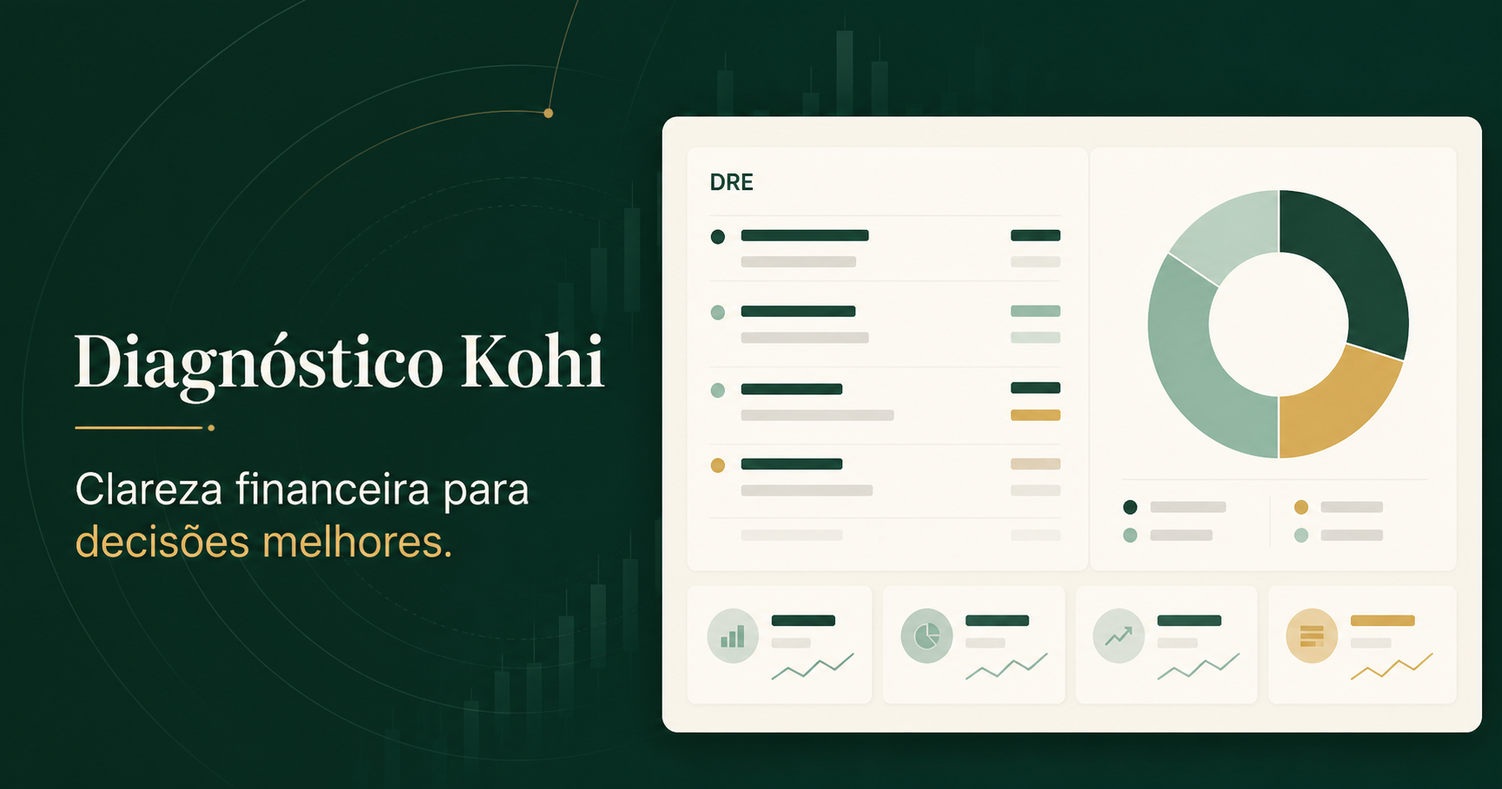
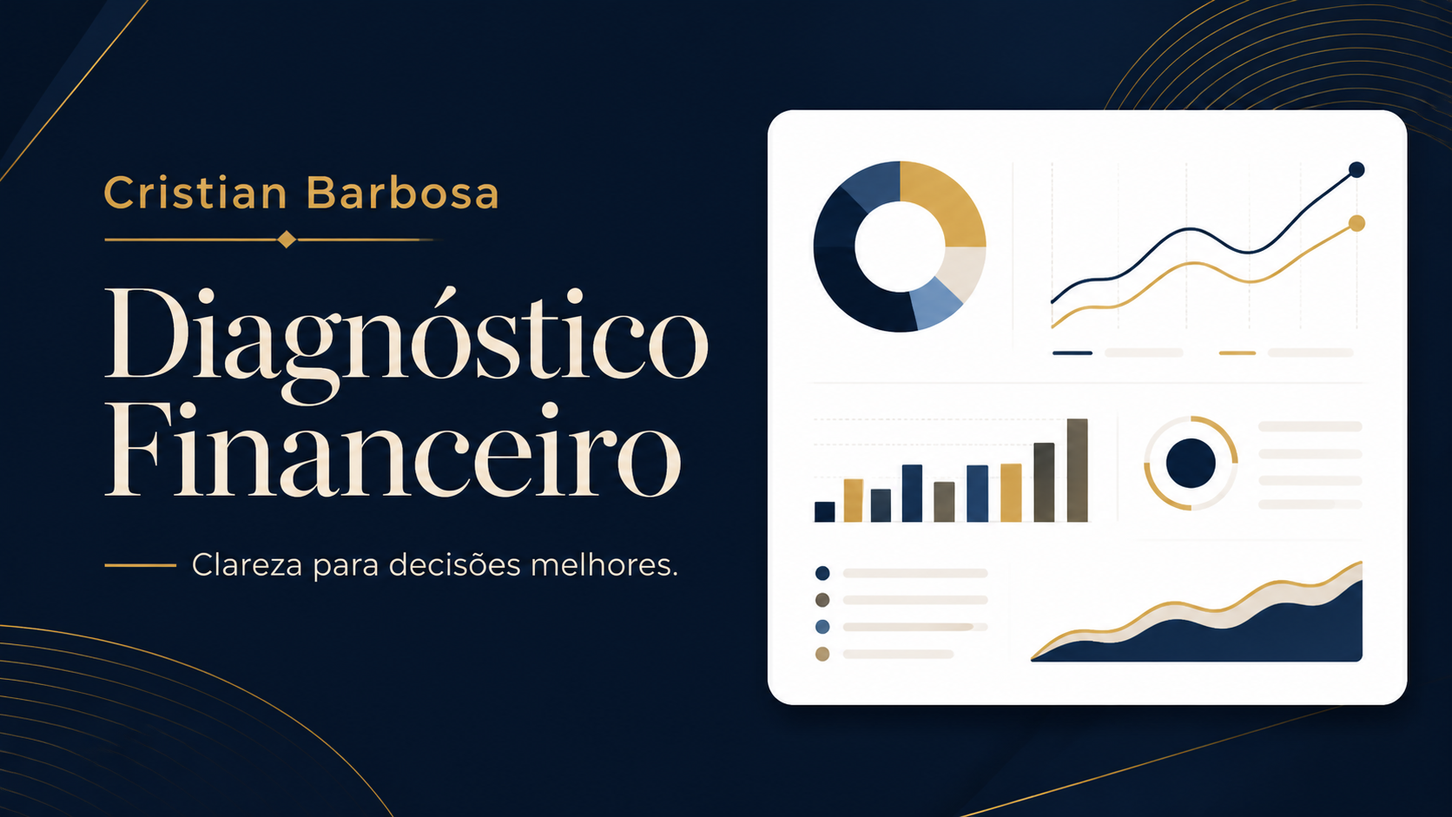
Rebrand financial diagnosis for Cristian Barbosa

diff --git a/app/globals.css b/app/globals.css
@@ -1,12 +1,12 @@
 @import "tailwindcss";
 
-:root { --ink:#16231e; --forest:#153e32; --green:#2f8a68; --cream:#f4f1ea; --line:#dfe5e1; --muted:#66736d; }
+:root { --ink:#101b2c; --forest:#07111f; --green:#163a63; --cream:#f7f2e8; --line:#dfe3e8; --muted:#687386; --gold:#d2ae4a; --navy:#07111f; --blue:#163a63; }
 * { box-sizing:border-box; }
 html,body { margin:0; min-height:100%; }
 body { color:var(--ink); background:#f8faf8; font-family:var(--font-geist),Arial,sans-serif; }
 button,input,select { font:inherit; }
 .login-shell { min-height:100vh; display:grid; grid-template-columns:minmax(420px,1.05fr) minmax(440px,.95fr); }
-.login-story { position:relative; padding:54px 7vw 50px; overflow:hidden; color:#fff; background:radial-gradient(circle at 20% 10%,#24614d 0,transparent 34%),linear-gradient(145deg,#153e32 0%,#0f2d25 100%); display:flex; flex-direction:column; justify-content:space-between; }
+.login-story { position:relative; padding:54px 7vw 50px; overflow:hidden; color:#fff; background:radial-gradient(circle at 20% 10%,#182945 0,transparent 34%),linear-gradient(145deg,#07111f 0%,#0d1c31 100%); display:flex; flex-direction:column; justify-content:space-between; }
 .login-story::after { content:""; position:absolute; width:520px; height:520px; border:1px solid rgba(255,255,255,.09); border-radius:50%; right:-250px; bottom:-150px; box-shadow:0 0 0 80px rgba(255,255,255,.025),0 0 0 160px rgba(255,255,255,.018); }
 .brand { display:flex; gap:13px; align-items:center; color:#fff; text-decoration:none; font-size:17px; position:relative; z-index:1; }
 .brand-mark { display:grid; place-items:center; width:38px; height:38px; border-radius:11px; background:#d6ad57; color:#173a30; font-weight:800; font-family:Georgia,serif; box-shadow:inset 0 0 0 1px rgba(255,255,255,.3); }
@@ -28,6 +28,7 @@ button,input,select { font:inherit; }
 .app-shell{min-height:100vh;display:grid;grid-template-columns:228px 1fr;background:#f5f7f5}.sidebar{position:sticky;top:0;height:100vh;background:#12382e;color:#d8e5df;padding:27px 22px;display:flex;flex-direction:column}.side-brand{display:flex;align-items:center;gap:10px;font-size:14px}.side-brand .brand-mark{width:34px;height:34px}.side-brand strong{display:block;color:#fff;font-size:16px}.sidebar nav{margin-top:58px}.sidebar nav>span{display:block;color:#75968a;font-size:9px;letter-spacing:.18em;margin:0 10px 10px}.sidebar nav a{display:flex;gap:13px;align-items:center;padding:12px;color:#94afa4;text-decoration:none;font-size:12px;border-radius:9px;margin-bottom:5px}.sidebar nav a.active{background:rgba(255,255,255,.09);color:#fff}.side-note{margin-top:auto;background:rgba(255,255,255,.07);padding:16px;border-radius:12px;display:grid;grid-template-columns:28px 1fr;column-gap:8px}.side-note>span{grid-row:1/3;width:26px;height:26px;border-radius:8px;background:#d6ad57;color:#173a30;display:grid;place-items:center;font-weight:800}.side-note strong{font-size:11px}.side-note small{font-size:9px;color:#91aaa0;line-height:1.45;margin-top:3px}.sidebar footer{font-size:9px;color:#66887c;line-height:1.5;margin-top:24px}.workspace{padding:38px 4.2vw 60px;min-width:0}.topbar{display:flex;justify-content:space-between;gap:30px;align-items:flex-start}.topbar h1,.company-hero h1{font-family:Georgia,serif;font-weight:500;letter-spacing:-.035em;margin:8px 0 6px;font-size:38px}.topbar p{margin:0;color:var(--muted);font-size:13px}.user-menu{display:flex;align-items:center;gap:10px;background:#fff;border:1px solid #e1e7e3;padding:8px 10px;border-radius:12px}.avatar{width:34px;height:34px;border-radius:10px;background:#dcebe4;color:#1f614c;display:grid;place-items:center;font-size:11px;font-weight:800}.user-menu div{display:flex;flex-direction:column;min-width:120px}.user-menu strong{font-size:11px}.user-menu small{font-size:9px;color:#84908b}.user-menu button,.table-wrap td>button{border:0;background:none;color:#87918c;cursor:pointer}.sync-line{display:flex;gap:7px;align-items:center;color:#89938e;font-size:10px;margin:24px 0}.sync-dot{width:7px;height:7px;background:#42a37e;border-radius:50%;box-shadow:0 0 0 3px #dceee7}.config-alert{display:flex;gap:12px;align-items:center;background:#fff4df;border:1px solid #f0d8aa;padding:13px 16px;border-radius:10px;color:#815d22;font-size:11px;margin-bottom:16px}.summary-grid{display:grid;grid-template-columns:repeat(3,1fr);gap:14px;margin-bottom:18px}.summary-grid article,.list-card,.analysis-card,.indicators article,.scenarios article{background:#fff;border:1px solid #e1e6e2;border-radius:14px}.summary-grid article{padding:19px 21px;display:grid;grid-template-columns:1fr auto}.summary-grid span{font-size:11px;color:#6f7a74}.summary-grid strong{grid-row:1/3;grid-column:2;font-family:Georgia,serif;font-size:30px;font-weight:500}.summary-grid small{font-size:9px;color:#99a19d;margin-top:7px}.list-card{overflow:hidden}.list-head{display:flex;justify-content:space-between;align-items:center;padding:22px 24px;border-bottom:1px solid #edf0ee;gap:20px}.list-head h2{font-family:Georgia,serif;font-size:22px;font-weight:500;margin:0 0 3px}.list-head p{font-size:10px;color:#8b9690;margin:0}.filters{display:flex;gap:8px}.search{position:relative}.search span{position:absolute;left:11px;top:9px;color:#929d97}.filters input,.filters select{height:34px;border:1px solid #dfe5e1;background:#fff;border-radius:8px;color:#65716b;font-size:10px;padding:0 10px}.filters input{width:200px;padding-left:29px}.table-wrap{overflow-x:auto}.table-wrap table{width:100%;border-collapse:collapse;min-width:800px}.table-wrap th{padding:12px 18px;text-align:left;background:#fafbf9;color:#87918b;text-transform:uppercase;letter-spacing:.09em;font-size:8px}.table-wrap td{padding:15px 18px;border-top:1px solid #edf0ee;font-size:10px;color:#61706a;cursor:pointer}.table-wrap tr:hover td{background:#fbfdfb}.table-wrap td>strong,.table-wrap td>small{display:block;color:#263b33}.table-wrap td>small{color:#8b9690;margin-top:4px}.company{display:flex;align-items:center;gap:11px}.company>span,.hero-id>span{width:38px;height:38px;border-radius:10px;background:#e3efe9;color:#2f765b;display:grid;place-items:center;font-size:10px;font-weight:800}.company div{display:flex;flex-direction:column}.company small{margin-top:3px;color:#8a958f}.status{display:inline-flex;align-items:center;gap:5px;padding:5px 8px;border-radius:99px;font-size:9px;font-weight:700}.status i{width:5px;height:5px;border-radius:50%;background:currentColor}.status.positive{background:#e5f4ec;color:#25704f}.status.negative{background:#fdeae6;color:#b44e3d}.empty{text-align:center;color:#84908a;padding:45px;font-size:12px}.detail{padding-top:22px}.detail-top{display:flex;justify-content:space-between;align-items:center}.back,.ghost{border:0;background:none;color:#496158;font-size:11px;cursor:pointer}.ghost{border:1px solid #dbe2de;border-radius:8px;padding:7px 12px}.company-hero{display:flex;justify-content:space-between;align-items:center;margin-top:28px}.hero-id{display:flex;gap:16px;align-items:center}.hero-id>span{width:58px;height:58px;border-radius:15px;font-size:15px}.hero-id small{text-transform:uppercase;letter-spacing:.13em;color:#6aa187;font-size:8px}.company-hero h1{font-size:34px;margin:3px 0}.company-hero p{margin:0;color:#7c8882;font-size:11px}.hero-contact{display:flex;align-items:center;gap:24px}.hero-contact div{display:flex;flex-direction:column;text-align:right}.hero-contact small{font-size:8px;text-transform:uppercase;color:#8a9690}.hero-contact strong{font-size:11px;margin:3px 0}.hero-contact span{font-size:9px;color:#7c8882}.hero-contact a{background:#287c5e;color:#fff;text-decoration:none;border-radius:9px;padding:11px 15px;font-size:10px;font-weight:700}.detail-meta{display:flex;gap:19px;margin:18px 0 24px;padding-bottom:18px;border-bottom:1px solid #e0e5e2;color:#7f8b85;font-size:9px}.kpi-grid{display:grid;grid-template-columns:repeat(4,1fr);gap:12px}.kpi-grid article{background:#fff;border:1px solid #e2e7e4;border-radius:12px;padding:17px}.kpi-grid small,.kpi-grid span{display:block;color:#839089;font-size:9px}.kpi-grid strong{display:block;font-family:Georgia,serif;font-size:23px;font-weight:500;margin:8px 0 4px}.green{color:#227451!important}.red{color:#b64938!important}.critical,.positive-note{display:flex;align-items:center;gap:13px;margin:17px 0;padding:13px 16px;border-radius:10px}.critical{background:#fff0ed;border:1px solid #f1d2cc;color:#8f392e}.positive-note{background:#eaf6ef;border:1px solid #cde8d8;color:#246548}.critical>span,.positive-note>span{width:26px;height:26px;border-radius:50%;display:grid;place-items:center;background:#fff;font-weight:800}.critical strong,.positive-note strong{font-size:10px}.critical p,.positive-note p{font-size:9px;margin:3px 0 0}.analysis-grid{display:grid;grid-template-columns:1fr 1fr;gap:15px}.analysis-card{padding:22px}.card-title{display:flex;justify-content:space-between;align-items:center;margin-bottom:16px}.card-title h2,.section-heading h2{font-family:Georgia,serif;font-weight:500;font-size:22px;margin:5px 0}.pl-chip{font-size:9px;background:#e7f2ed;color:#25694f;padding:6px 9px;border-radius:99px}.financial-table>div{display:grid;grid-template-columns:1fr 105px 48px;gap:8px;padding:8px 4px;border-bottom:1px solid #eef1ef;font-size:9px}.financial-table strong,.financial-table small{text-align:right}.financial-table small{color:#89948f}.financial-table .subtotal{font-weight:750;background:#fafbf9}.financial-table .minus{color:#a95749}.financial-table .total{background:#163f33;color:#fff;margin-top:8px;border-radius:8px;border:0;padding:12px}.asset-chart{display:flex;align-items:center;justify-content:center;gap:30px;background:#fafbf9;border-radius:10px;padding:14px}.donut{width:105px;height:105px;border-radius:50%;display:grid;place-items:center;align-content:center;position:relative}.donut::before{content:"";position:absolute;inset:14px;background:#fafbf9;border-radius:50%}.donut span,.donut small{position:relative;z-index:1}.donut span{font-size:11px;font-weight:800}.donut small{font-size:7px;color:#829089}.legend{display:flex;flex-direction:column;gap:10px;font-size:8px}.legend span{display:grid;grid-template-columns:8px 1fr auto;gap:7px}.legend i{width:7px;height:7px;border-radius:2px}.legend .circulante{background:#2f8a68}.legend .nao{background:#d6ad57}.balance-columns{display:grid;grid-template-columns:1fr 1fr;gap:22px;margin-top:16px}.balance-columns h3{font-size:8px;letter-spacing:.2em;color:#547066}.balance-columns p{display:flex;justify-content:space-between;font-size:8px;margin:0;padding:6px 0;border-bottom:1px solid #eef1ef}.balance-columns .sum{font-weight:800}.closed{text-align:center;margin-top:12px;background:#e8f5ee;color:#2b7155;border-radius:7px;padding:7px;font-size:8px}.indicators,.scenarios{margin-top:34px}.section-heading p{color:#7d8983;font-size:10px;margin:0}.indicator-grid{display:grid;grid-template-columns:repeat(3,1fr);gap:14px;margin-top:14px}.indicators article{padding:20px}.indicators article h3{font-family:Georgia,serif;font-weight:500;margin:0;font-size:17px}.indicators article>p{color:#87928c;font-size:9px;margin:5px 0 15px}.health-row{display:grid;grid-template-columns:1fr auto auto;gap:8px;align-items:center;padding:9px 0;border-top:1px solid #edf0ee;font-size:9px}.health-row span{display:flex;gap:7px;align-items:center}.health-row i{width:7px;height:7px;border-radius:50%}.health-row i.good{background:#3b9871}.health-row i.warn{background:#d9a93e}.health-row i.bad{background:#c15342}.health-row small{padding:3px 5px;border-radius:4px;background:#f0f3f1;font-size:7px}.efficiency strong{font-family:Georgia,serif;font-size:29px}.efficiency span{font-size:9px;color:#88938d}.benchmark{display:flex;gap:4px;margin:14px 0 9px}.benchmark span{height:6px;background:#e3e8e5;border-radius:4px;flex:1}.benchmark span.fill{background:#45a27c}.indicators article>small{color:#89938e;font-size:8px;line-height:1.45;display:block}.indicators dl{margin:0}.indicators dt{font-size:7px;color:#8b9690;text-transform:uppercase;margin-top:9px}.indicators dd{margin:2px 0;font-size:9px}.scenario-grid{display:grid;grid-template-columns:repeat(3,1fr);gap:13px;margin-top:14px}.scenarios article{padding:18px;display:grid;grid-template-columns:1fr auto}.scenarios article.featured{border-color:#4b9477;box-shadow:0 6px 22px rgba(30,104,77,.09)}.scenarios span{font-size:10px;font-weight:800}.scenarios small{font-size:8px;color:#87928c}.scenarios strong{grid-column:1/3;font-family:Georgia,serif;font-size:25px;font-weight:500;margin:12px 0 3px}.scenarios em{grid-column:1/3;font-size:8px;color:#8b9690;font-style:normal}
 .executive-grid{grid-template-columns:repeat(3,1fr)}
 .premium-report{max-width:1600px}.report-section{margin-top:38px}.diagnostic-highlight{margin:18px 0 0}.metric-badge{display:inline-flex;align-items:center;padding:6px 9px;border-radius:99px;font-size:9px;font-weight:800}.metric-badge.good{background:#e5f4ec;color:#25704f}.metric-badge.warn{background:#fff3d7;color:#916717}.metric-badge.bad{background:#fdeae6;color:#b44e3d}.metric-badge.neutral{background:#eef2ef;color:#64726b}.ratio-grid{display:grid;grid-template-columns:repeat(4,1fr);gap:13px;margin-top:15px}.ratio-card,.operational-grid article,.context-grid article,.raw-group{background:#fff;border:1px solid #e1e6e2;border-radius:14px;padding:18px}.ratio-card>div{display:flex;justify-content:space-between;align-items:center;gap:10px}.ratio-card h3,.composition-card h3,.conclusion h3,.raw-group h3{font-family:Georgia,serif;font-size:16px;font-weight:500;margin:0}.ratio-card p{color:#75827c;font-size:9px;line-height:1.55;margin:14px 0 0}.debt-layout{display:grid;grid-template-columns:1.05fr .95fr;gap:15px;margin-top:15px}.debt-metrics{grid-template-columns:1fr 1fr;margin:0}.composition-card>h3{margin-bottom:17px}.composition-row{margin:12px 0}.composition-row>div:first-child{display:flex;justify-content:space-between;gap:15px;font-size:9px}.composition-row strong{font-size:8px;color:#66736d}.composition-track{height:7px;background:#edf1ee;border-radius:8px;overflow:hidden;margin-top:6px}.composition-track i{display:block;height:100%;border-radius:8px;background:#398c6c}.composition-track i.gold{background:#d6ad57}.composition-track i.red{background:#c46a5b}.hundred-bar{height:16px;display:flex;overflow:hidden;background:#e8ece9;border-radius:99px;margin:18px 0 14px}.hundred-bar i{display:block;height:100%}.hundred-bar .gold{background:#d6ad57}.hundred-bar .green{background:#4b987b}.hundred-bar .result-positive{background:#17493a}.hundred-bar .result-negative{background:#c46a5b}.hundred-grid{display:grid;grid-template-columns:repeat(5,1fr);gap:10px}.hundred-grid article{background:#fff;border:1px solid #e1e6e2;border-radius:12px;padding:14px}.hundred-grid span{display:block;color:#77837d;font-size:9px}.hundred-grid strong{display:block;font-family:Georgia,serif;font-size:19px;font-weight:500;margin-top:7px}.unavailable{background:#fff;border:1px solid #e1e6e2;border-radius:12px;padding:24px;color:#7c8882;font-size:10px;margin-top:15px}.asset-composition{margin-top:15px}.operational-grid{display:grid;grid-template-columns:repeat(4,1fr);gap:12px;margin-top:15px}.operational-grid article small,.operational-grid article span{display:block;color:#839089;font-size:9px}.operational-grid article strong{display:block;font-family:Georgia,serif;font-size:20px;font-weight:500;margin:9px 0 5px}.conclusions-grid{display:grid;grid-template-columns:1fr 1fr;gap:11px;margin-top:15px}.conclusion{display:flex;gap:11px;padding:15px;border:1px solid #e2e7e4;border-radius:12px;background:#fff}.conclusion>span{width:25px;height:25px;flex:0 0 25px;border-radius:8px;display:grid;place-items:center;background:#eef2ef;color:#53645c;font-weight:800}.conclusion.good{background:#f2f8f5}.conclusion.good>span{background:#dcefe5;color:#287151}.conclusion.warn{background:#fffaf0}.conclusion.warn>span{background:#f7e8c4;color:#936b1c}.conclusion.bad{background:#fff5f3}.conclusion.bad>span{background:#f3ddd9;color:#a8493c}.conclusion p{font-size:9px;line-height:1.5;color:#69766f;margin:5px 0 0}.context-grid{display:grid;grid-template-columns:repeat(3,1fr);gap:13px;margin-top:15px}.context-grid small{display:block;text-transform:uppercase;letter-spacing:.09em;color:#85918b;font-size:8px}.context-grid strong{display:block;font-family:Georgia,serif;font-weight:500;font-size:16px;margin-top:8px}.context-grid p{font-size:9px;color:#68756e;line-height:1.5;margin:10px 0 0}.raw-grid{display:grid;grid-template-columns:repeat(2,1fr);gap:13px;margin-top:15px}.raw-group h3{margin-bottom:13px}.raw-group p{display:flex;justify-content:space-between;gap:18px;border-top:1px solid #edf0ee;margin:0;padding:8px 0;font-size:9px}.raw-group p span{color:#7a8780}.raw-group p strong{text-align:right;font-weight:650;word-break:break-word}
+.brand-mark{background:var(--gold);color:var(--navy);font-family:Georgia,serif;font-size:11px}.brand>span:last-child{display:flex;flex-direction:column}.brand small{color:#aeb8c9;font-size:9px;font-weight:400;letter-spacing:.08em;text-transform:uppercase;margin-top:3px}.eyebrow{color:#a9862e}.story-copy .eyebrow{color:#d2ae4a}.primary-button{background:var(--gold);color:var(--navy);box-shadow:0 9px 24px rgba(7,17,31,.2)}.primary-button:hover{background:#e1be5b}.login-panel{background:linear-gradient(135deg,#fbfbfc,#eef1f5)}.sidebar{background:var(--navy);color:#e5e9f0}.side-brand strong{color:#d2ae4a;font-size:10px;text-transform:uppercase;letter-spacing:.08em;margin-top:3px}.sidebar nav>span,.sidebar footer{color:#71809a}.sidebar nav a{color:#9da9bc}.sidebar nav a.active{background:rgba(210,174,74,.14);color:#fff}.side-note{background:rgba(210,174,74,.1)}.side-note>span{background:var(--gold);color:var(--navy)}.side-note small{color:#9da9bc}.workspace,.app-shell{background:#f3f5f8}.avatar,.company>span,.hero-id>span{background:#f4e9c7;color:#735b1d}.sync-dot{background:var(--gold);box-shadow:0 0 0 3px #f3e8c6}.hero-contact a{background:var(--gold);color:var(--navy)}.status.positive{background:#e6edf7;color:#15365f}.green{color:#153a63!important}.positive-note{background:#eef3fa;border-color:#d5e0ef;color:#18385e}.pl-chip,.metric-badge.good{background:#e6edf7;color:#15365f}.financial-table .total{background:var(--navy)}.legend .circulante{background:#163a63}.legend .nao{background:#d2ae4a}.closed{background:#eef3fa;color:#18385e}.composition-track i{background:#244f7e}.composition-track i.gold,.hundred-bar .gold{background:#d2ae4a}.hundred-bar .green{background:#416a99}.hundred-bar .result-positive{background:#07111f}.conclusion.good{background:#f2f5fa}.conclusion.good>span{background:#dce5f1;color:#173a63}.metric-badge.neutral{background:#edf0f5;color:#536177}.hero-id small{color:#a9862e}.back,.ghost{color:#243a5a}.analysis-card,.ratio-card,.operational-grid article,.context-grid article,.raw-group,.hundred-grid article,.kpi-grid article,.list-card,.summary-grid article{background:#fff}
 @media(max-width:1050px){.sidebar{display:none}.app-shell{grid-template-columns:1fr}.analysis-grid{grid-template-columns:1fr}.kpi-grid{grid-template-columns:repeat(2,1fr)}}
 @media(max-width:1050px){.ratio-grid{grid-template-columns:1fr 1fr}.debt-layout{grid-template-columns:1fr}.operational-grid{grid-template-columns:repeat(2,1fr)}}
 @media(max-width:850px){.login-shell{grid-template-columns:1fr}.login-story{display:none}.login-panel{min-height:100vh;padding:28px}.mini-brand{display:block;margin-bottom:26px}.login-card h2{font-size:34px}.workspace{padding:26px 18px 50px}.topbar,.company-hero{flex-direction:column}.user-menu{display:none}.summary-grid,.indicator-grid,.scenario-grid{grid-template-columns:1fr}.list-head{align-items:stretch;flex-direction:column}.filters{flex-wrap:wrap}.filters input{width:100%}.search{flex:1 0 100%}.hero-contact{width:100%;justify-content:space-between}.hero-contact div{text-align:left}.kpi-grid{grid-template-columns:1fr 1fr}.hundred-grid{grid-template-columns:repeat(2,1fr)}.context-grid,.raw-grid{grid-template-columns:1fr}}

diff --git a/app/ui/FinancialDetail.tsx b/app/ui/FinancialDetail.tsx
@@ -18,7 +18,7 @@ function RatioCard({title,value,text,tone="neutral"}:{title:string;value:string;
 function BarRow({label,value,total,color="green"}:{label:string;value:number;total:number;color?:"green"|"gold"|"red"}){const share=total>0?value/total:null;return <div className="composition-row"><div><span>{label}</span><strong>{money(value)} · {percentage(share)}</strong></div><div className="composition-track"><i className={color} style={{width:`${Math.max(0,Math.min(100,(share??0)*100))}%`}}/></div></div>}
 function RawGroup({title,rows}:{title:string;rows:[string,React.ReactNode][]}){return <article className="raw-group"><h3>{title}</h3><div>{rows.map(([label,value])=><p key={label}><span>{label}</span><strong>{value}</strong></p>)}</div></article>}
 
-function Sidebar(){return <aside className="sidebar"><div className="side-brand"><span className="brand-mark">K</span><span>Diagnóstico<strong>Kohi</strong></span></div><nav><span>MENU</span><a className="active" href="#">▦ <b>Diagnósticos</b></a><a href="#metodologia">◉ <b>Metodologia</b></a></nav><div className="side-note"><span>?</span><strong>Precisa de ajuda?</strong><small>Consulte as premissas dos cálculos.</small></div><footer>Dados protegidos<br/>Acesso interno</footer></aside>}
+function Sidebar(){return <aside className="sidebar"><div className="side-brand"><span className="brand-mark">CB</span><span>Cristian Barbosa<strong>Consultor Financeiro</strong></span></div><nav><span>MENU</span><a className="active" href="#">▦ <b>Diagnósticos</b></a><a href="#metodologia">◉ <b>Metodologia</b></a></nav><div className="side-note"><span>?</span><strong>Precisa de ajuda?</strong><small>Consulte as premissas dos cálculos.</small></div><footer>Dados protegidos<br/>Acesso interno</footer></aside>}
 
 export function FinancialDetail({diagnostic:d,onBack}:{diagnostic:Diagnostic;onBack:()=>void}){
   const m=calculateFinancialMetrics(d);
@@ -49,7 +49,7 @@ export function FinancialDetail({diagnostic:d,onBack}:{diagnostic:Diagnostic;onB
     <div className={m.operatingResult>=0?"positive-note diagnostic-highlight":"critical diagnostic-highlight"}><span>{m.operatingResult>=0?"✓":"!"}</span><div><strong>Destaque do diagnóstico</strong><p>{m.operatingMargin==null?"Não há faturamento suficiente para calcular a margem operacional.":`Com os dados informados, o resultado operacional estimado é ${money(m.operatingResult)}, equivalente a ${percentage(m.operatingMargin)} do faturamento.`}</p></div></div>
 
     <section className="analysis-grid report-section"><article className="analysis-card"><div className="card-title"><div><span className="eyebrow">DRE</span><h2>Resultado operacional estimado</h2></div><Badge tone={resultTone}>{percentage(m.operatingMargin)}</Badge></div><div className="financial-table">{dreRows.map(([label,value,subtotal])=><div className={subtotal?"subtotal":""} key={label}><span>{label}</span><strong className={value<0?"minus":""}>{money(value)}</strong><small>{percentage(m.revenue>0?Math.abs(value)/m.revenue:null)}</small></div>)}<div className="total"><span>RESULTADO OPERACIONAL ESTIMADO</span><strong>{money(m.operatingResult)}</strong><small>{percentage(m.operatingMargin)}</small></div></div></article>
-      <article className="analysis-card"><div className="card-title"><div><span className="eyebrow">Balanço patrimonial</span><h2>Posição patrimonial atual</h2></div><span className="pl-chip">PL {money(m.equity)}</span></div><div className="asset-chart"><div className="donut" style={{background:`conic-gradient(#2f8a68 0 ${(assetCurrentShare??0)*100}%,#d6ad57 ${(assetCurrentShare??0)*100}% 100%)`}}><span>{money(m.totalAssets)}</span><small>Total ativo</small></div><div className="legend"><span><i className="circulante"/>Circulante <b>{percentage(assetCurrentShare)}</b></span><span><i className="nao"/>Não-circulante <b>{percentage(assetCurrentShare==null?null:1-assetCurrentShare)}</b></span></div></div><div className="balance-columns"><div><h3>ATIVO</h3><p><span>Ativo circulante</span><strong>{money(m.currentAssets)}</strong></p><p><span>Imobilizado</span><strong>{money(m.fixedAssets)}</strong></p><p className="sum"><span>Total do ativo</span><strong>{money(m.totalAssets)}</strong></p></div><div><h3>PASSIVO + PL</h3><p><span>Passivo circulante</span><strong>{money(m.currentLiabilities)}</strong></p><p><span>Passivo não-circulante</span><strong>{money(m.bankLong)}</strong></p><p><span>Patrimônio líquido</span><strong>{money(m.equity)}</strong></p><p className="sum"><span>Total passivo + PL</span><strong>{money(m.totalLiabilities+m.equity)}</strong></p></div></div><div className="closed">✓ Balanço fechado: Ativo = Passivo + PL</div></article></section>
+      <article className="analysis-card"><div className="card-title"><div><span className="eyebrow">Balanço patrimonial</span><h2>Posição patrimonial atual</h2></div><span className="pl-chip">PL {money(m.equity)}</span></div><div className="asset-chart"><div className="donut" style={{background:`conic-gradient(#163a63 0 ${(assetCurrentShare??0)*100}%,#d2ae4a ${(assetCurrentShare??0)*100}% 100%)`}}><span>{money(m.totalAssets)}</span><small>Total ativo</small></div><div className="legend"><span><i className="circulante"/>Circulante <b>{percentage(assetCurrentShare)}</b></span><span><i className="nao"/>Não-circulante <b>{percentage(assetCurrentShare==null?null:1-assetCurrentShare)}</b></span></div></div><div className="balance-columns"><div><h3>ATIVO</h3><p><span>Ativo circulante</span><strong>{money(m.currentAssets)}</strong></p><p><span>Imobilizado</span><strong>{money(m.fixedAssets)}</strong></p><p className="sum"><span>Total do ativo</span><strong>{money(m.totalAssets)}</strong></p></div><div><h3>PASSIVO + PL</h3><p><span>Passivo circulante</span><strong>{money(m.currentLiabilities)}</strong></p><p><span>Passivo não-circulante</span><strong>{money(m.bankLong)}</strong></p><p><span>Patrimônio líquido</span><strong>{money(m.equity)}</strong></p><p className="sum"><span>Total passivo + PL</span><strong>{money(m.totalLiabilities+m.equity)}</strong></p></div></div><div className="closed">✓ Balanço fechado: Ativo = Passivo + PL</div></article></section>
 
     <section className="report-section"><div className="section-heading"><span className="eyebrow">Saúde financeira</span><h2>Capacidade de cumprir obrigações</h2><p>Leitura da liquidez e do capital de giro com base na fotografia atual.</p></div><div className="ratio-grid"><RatioCard title="Liquidez corrente" value={multiple(m.currentLiquidity)} tone={liquidityTone} text={m.currentLiquidity==null?"Não disponível: não há passivo circulante para comparação.":`Para cada R$ 1,00 de obrigação de curto prazo, há ${brl2.format(m.currentLiquidity)} em ativos circulantes.`}/><RatioCard title="Liquidez seca" value={multiple(m.dryLiquidity)} tone={m.dryLiquidity==null?"neutral":m.dryLiquidity>=1?"good":"warn"} text={m.dryLiquidity==null?"Não disponível.":`Sem considerar estoques, há ${brl2.format(m.dryLiquidity)} para cada R$ 1,00 de obrigação de curto prazo.`}/><RatioCard title="Liquidez imediata" value={percentage(m.immediateLiquidity)} tone={m.immediateLiquidity==null?"neutral":m.immediateLiquidity>=1?"good":"warn"} text={m.immediateLiquidity==null?"Não disponível.":`O caixa disponível cobre ${percentage(m.immediateLiquidity)} das obrigações de curto prazo.`}/><RatioCard title="Capital de giro" value={money(m.workingCapital)} tone={capitalTone} text={m.workingCapital>0?"Positivo: os ativos circulantes superam as obrigações de curto prazo.":m.workingCapital<0?"Negativo: as obrigações de curto prazo superam os ativos circulantes.":"Em equilíbrio: ativo e passivo circulantes possuem o mesmo valor."}/></div></section>
 

diff --git a/app/ui/Login.tsx b/app/ui/Login.tsx
@@ -3,11 +3,11 @@ import { useState } from "react";
 export function Login({ error = false }: { error?: boolean }) {
   const [visible, setVisible] = useState(false);
   return <main className="login-shell"><section className="login-story" aria-label="Apresentação do painel">
-    <div className="brand"><span className="brand-mark">K</span><span>Diagnóstico <strong>Kohi</strong></span></div>
+    <div className="brand"><span className="brand-mark">CB</span><span><strong>Cristian Barbosa</strong><small>Consultor Financeiro</small></span></div>
     <div className="story-copy"><span className="eyebrow">Painel interno</span><h1>Clareza financeira para uma devolutiva que transforma.</h1><p>DRE, balanço patrimonial e indicadores essenciais reunidos em uma análise direta e profissional.</p></div>
     <div className="story-proof"><strong>Visão completa.</strong> Decisões com confiança.</div>
   </section><section className="login-panel"><form className="login-card" action="/api/login" method="post">
-    <div className="mini-brand"><span className="brand-mark">K</span></div><span className="eyebrow">Acesso restrito</span><h2>Bem-vindo, Cristian</h2><p>Entre para acessar os diagnósticos das empresas.</p>
+    <div className="mini-brand"><span className="brand-mark">CB</span></div><span className="eyebrow">Acesso restrito</span><h2>Bem-vindo, Cristian</h2><p>Entre para acessar os diagnósticos das empresas.</p>
     {error && <div className="login-error" role="alert">Usuário ou senha incorretos. Tente novamente.</div>}
     <label htmlFor="username">Usuário</label><input id="username" name="username" autoComplete="username" placeholder="Seu nome de usuário" required />
     <label htmlFor="password">Senha</label><div className="password-field"><input id="password" name="password" type={visible ? "text" : "password"} autoComplete="current-password" placeholder="Sua senha" required /><button type="button" onClick={() => setVisible(!visible)}>{visible ? "Ocultar" : "Mostrar"}</button></div>

diff --git a/app/ui/Dashboard.tsx b/app/ui/Dashboard.tsx
@@ -37,7 +37,7 @@ export function Dashboard({initialDiagnostics,source,loadError}:{initialDiagnost
   </section></main>;
 }
 
-function Sidebar(){return <aside className="sidebar"><div className="side-brand"><span className="brand-mark">K</span><span>Diagnóstico<strong>Kohi</strong></span></div><nav><span>MENU</span><a className="active" href="#">▦ <b>Diagnósticos</b></a><a href="#metodologia">◉ <b>Metodologia</b></a></nav><div className="side-note"><span>?</span><strong>Precisa de ajuda?</strong><small>Consulte as premissas dos cálculos.</small></div><footer>Dados protegidos<br/>Acesso interno</footer></aside>}
+function Sidebar(){return <aside className="sidebar"><div className="side-brand"><span className="brand-mark">CB</span><span>Cristian Barbosa<strong>Consultor Financeiro</strong></span></div><nav><span>MENU</span><a className="active" href="#">▦ <b>Diagnósticos</b></a><a href="#metodologia">◉ <b>Metodologia</b></a></nav><div className="side-note"><span>?</span><strong>Precisa de ajuda?</strong><small>Consulte as premissas dos cálculos.</small></div><footer>Dados protegidos<br/>Acesso interno</footer></aside>}
 
 function Detail({diagnostic:d,onBack}:{diagnostic:Diagnostic;onBack:()=>void}){
   const m=metrics(d), revenue=m.revenue, costs=d.dre_impostos+d.dre_compras+d.dre_folha+d.dre_despesas_adm+m.financial;

diff --git a/app/api/login/route.ts b/app/api/login/route.ts
@@ -1,3 +1,3 @@
 import { NextResponse } from "next/server";
 import { createSession, validCredentials } from "../../lib/auth";
-export async function POST(request: Request) { const form = await request.formData(); const username = String(form.get("username") || ""); const password = String(form.get("password") || ""); if (!(await validCredentials(username, password))) return NextResponse.redirect(new URL("/?erro=1", request.url), 303); const response = NextResponse.redirect(new URL("/", request.url), 303); response.cookies.set("kohi_session", await createSession(username), { httpOnly:true, sameSite:"strict", secure:new URL(request.url).protocol === "https:", maxAge:28800, path:"/" }); return response; }
+export async function POST(request: Request) { const form = await request.formData(); const username = String(form.get("username") || ""); const password = String(form.get("password") || ""); if (!(await validCredentials(username, password))) return NextResponse.redirect(new URL("/?erro=1", request.url), 303); const response = NextResponse.redirect(new URL("/", request.url), 303); response.cookies.set("diagnostico_session", await createSession(username), { httpOnly:true, sameSite:"strict", secure:new URL(request.url).protocol === "https:", maxAge:28800, path:"/" }); return response; }

diff --git a/app/layout.tsx b/app/layout.tsx
@@ -15,7 +15,7 @@ export async function generateMetadata(): Promise<Metadata> {
   const host = requestHeaders.get("x-forwarded-host") || requestHeaders.get("host") || "localhost:3000";
   const protocol = requestHeaders.get("x-forwarded-proto") || (host.startsWith("localhost") ? "http" : "https");
   const image = `${protocol}://${host}/og.png`;
-  const title = "Diagnóstico Kohi | Painel Financeiro";
+  const title = "Diagnóstico Financeiro | Cristian Barbosa";
   const description = "Clareza financeira para decisões melhores: DRE, balanço e indicadores em um painel interno seguro.";
   return { title, description, openGraph:{ title, description, images:[image] }, twitter:{ card:"summary_large_image", title, description, images:[image] } };
 }

diff --git a/app/page.tsx b/app/page.tsx
@@ -7,7 +7,7 @@ import { loadDiagnostics } from "./lib/diagnostics";
 export const dynamic = "force-dynamic";
 
 export default async function Home({ searchParams }: { searchParams: Promise<{ erro?: string }> }) {
-  const session = (await cookies()).get("kohi_session")?.value;
+  const session = (await cookies()).get("diagnostico_session")?.value;
   if (!(await isAuthenticated(session))) return <Login error={(await searchParams).erro === "1"} />;
   const { diagnostics, source, error } = await loadDiagnostics();
   return <Dashboard initialDiagnostics={diagnostics} source={source} loadError={error} />;

diff --git a/app/api/logout/route.ts b/app/api/logout/route.ts
@@ -1,2 +1,2 @@
 import { NextResponse } from "next/server";
-export async function POST(request: Request) { const response = NextResponse.redirect(new URL("/", request.url), 303); response.cookies.set("kohi_session", "", { httpOnly:true, sameSite:"strict", maxAge:0, path:"/" }); return response; }
+export async function POST(request: Request) { const response = NextResponse.redirect(new URL("/", request.url), 303); response.cookies.set("diagnostico_session", "", { httpOnly:true, sameSite:"strict", maxAge:0, path:"/" }); return response; }
